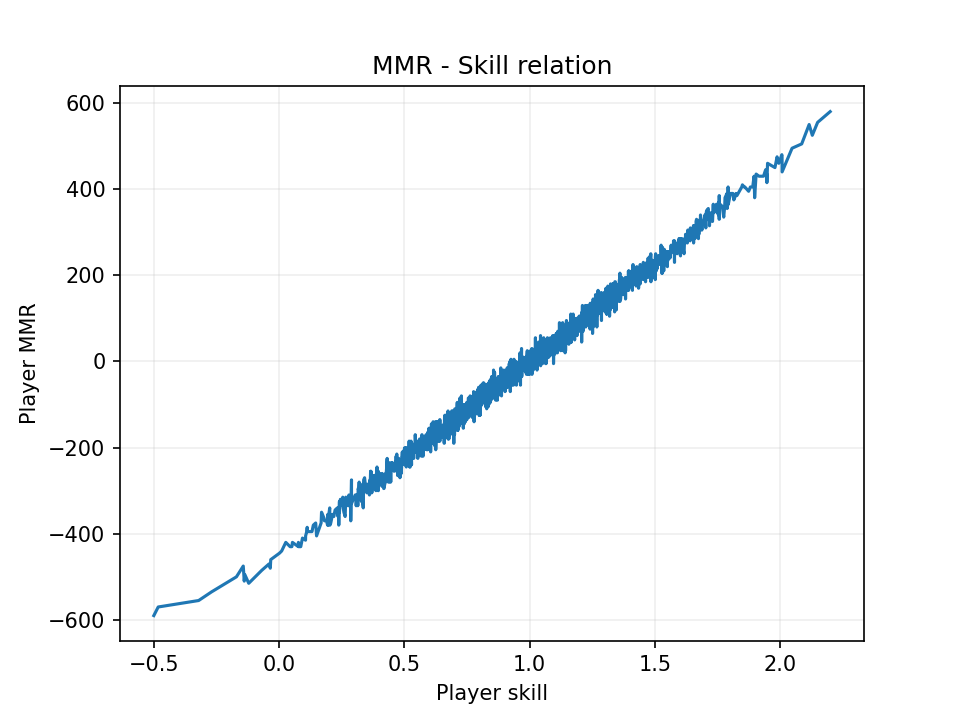
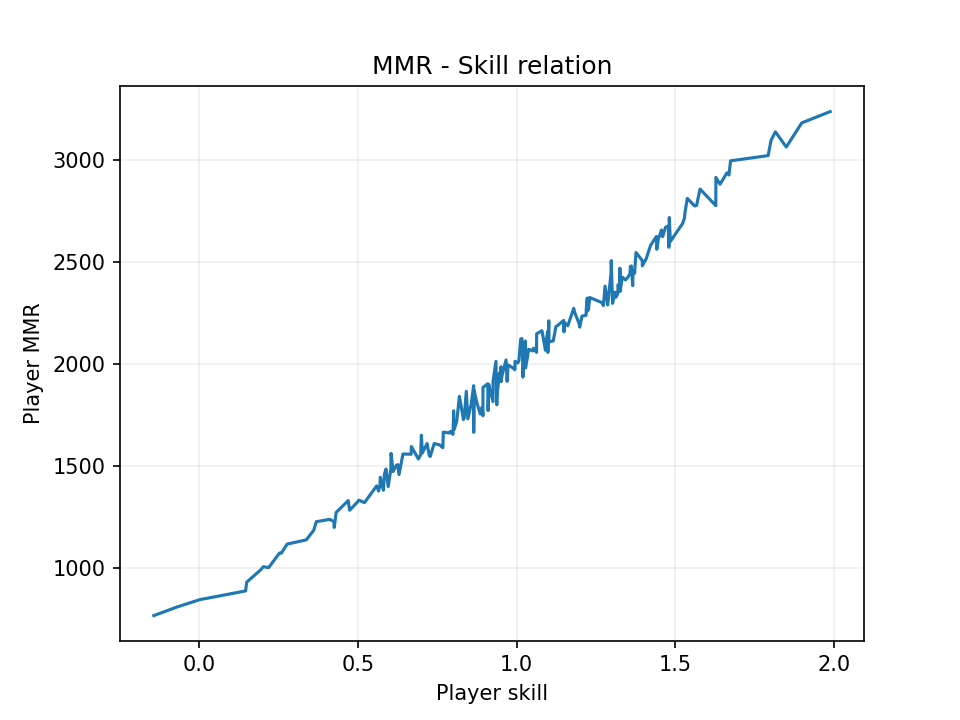
another day

diff --git a/main.cpp b/main.cpp
@@ -8,6 +8,7 @@
 
 #include "mutils.h" // adds "print" and "str" fuction templates
 
+std::vector<double> chance_differences;
 //
 // PLAYER CLASS
 //
@@ -17,7 +18,7 @@ public:
     // Actual player skill
     double skill;
     // MMR assigned by the matchmaker
-    int mmr = 0;
+    double mmr = 2000;
     // Vector of opponent skills. It's used to define the matchmaker accuracy.
     std::vector<double> opponent_history;
     //
@@ -42,7 +43,7 @@ class MatchmakingStrategy
 {
 public:
     virtual bool good_match(Player &p1, Player &p2) = 0;
-    virtual void update_mmr(Player &winner, Player &loser) = 0;
+    virtual void update_mmr(Player &winner, Player &loser, double actual_chances) = 0;
 };
 
 //
@@ -50,27 +51,26 @@ public:
 //
 class naive_strategy : public MatchmakingStrategy
 {
+    const int offset = 1; // how much MMR changes for win/loss
 
 public:
     // Checks if the match between players would be a good based on MMR
     // More complicated version would take into account search time, latency, etc.
     bool good_match(Player &p1, Player &p2)
     {
-        // ** provisional, more complex function later!
-        return std::abs(p1.mmr - p2.mmr) < 20;
+        return std::abs(p1.mmr - p2.mmr) < offset * 2;
     }
 
-    // Updates MMR for
-    void update_mmr(Player &winner, Player &loser)
+    // Updates MMR
+    void update_mmr(Player &winner, Player &loser, double actual_chances)
     {
         winner.opponent_history.push_back(loser.skill);
         winner.mmr_history.push_back(winner.mmr);
         loser.opponent_history.push_back(winner.skill);
         loser.mmr_history.push_back(loser.mmr);
 
-        // ** provisional, update based on expected winrate and choose coef wisely
-        winner.mmr += 5;
-        loser.mmr -= 5;
+        winner.mmr += offset;
+        loser.mmr -= offset;
     }
 };
 
@@ -79,27 +79,51 @@ public:
 //
 class ELO_strategy : public MatchmakingStrategy
 {
+    // ** TEST WITH fixed K
+    // ** TEST WITH K(player.mmr)
+    // ** TRY CHANGING So diff in chances is more aggressive (more points if chances are skewed more?)
+  
+    const double K = 32;
+    /*
+    High K seems to have better accuracy and slightly lower nunber of unique opponents
+
+    K       Opponents       Inaccuracy
+    4       97.3            18.36
+    8       83.3            11.98
+    16      74.9            8.74
+    32      69.4            7.33
+    64      67.4            6.71
+    128     66.6            6.17
+
+    */
 
 public:
     // Checks if the match between players would be a good based on MMR
     // More complicated version would take into account search time, latency, etc.
     bool good_match(Player &p1, Player &p2)
     {
-        // ** provisional, more complex function later!
-        return std::abs(p1.mmr - p2.mmr) < 20;
+        return std::abs(p1.mmr - p2.mmr) < 35.0; // 35 MMR → 55% ; 70 → 60% ; 120 → 66%; 191 → 75%
     }
 
     // Updates MMR for
-    void update_mmr(Player &winner, Player &loser)
+    void update_mmr(Player &winner, Player &loser, double actual_chances)
     {
         winner.opponent_history.push_back(loser.skill);
         winner.mmr_history.push_back(winner.mmr);
         loser.opponent_history.push_back(winner.skill);
         loser.mmr_history.push_back(loser.mmr);
 
-        // ** provisional, update based on expected winrate and choose coef wisely
-        winner.mmr += 5;
-        loser.mmr -= 5;
+        // Chances of winning for the winner and loser. /400 is changed to 173. to use exp instead of pow(10,)
+        double Ew = 1 / (1 + exp((loser.mmr - winner.mmr) / 173.718));
+        double El = 1 - Ew;
+
+        // printf("Winner (%f) | Loser (%f) | Expected: %f Actual: %f | +%f \n", winner.mmr, loser.mmr, Ew, actual_chances, K * El);
+        winner.mmr += K * El;
+        loser.mmr -= K * El;
+
+        
+        double diff = Ew - actual_chances;
+        chance_differences.push_back(diff*diff);
     }
 };
 
@@ -158,23 +182,15 @@ public:
         // printf("Playing a game between #%p (%i MMR) and #%p (%i MMR)\n", &p1, p1.mmr, &p2, p2.mmr);
 
         if (RNG() % 10000 <= 10000 * get_chance(p1, p2))
-        {
-            // print("P1 won");
-            // print();
-            strategy->update_mmr(p1, p2);
-        }
+            strategy->update_mmr(p1, p2, get_chance(p1, p2));
         else
-        {
-            // print("P2 won");
-            // print();
-            strategy->update_mmr(p2, p1);
-        }
+            strategy->update_mmr(p2, p1, get_chance(p2, p1));
     }
 
     // Runs the simulation for `number` of games
     void play_games(int number)
     {
-        bool found_opponent;
+        // bool found_opponent;
         int player, opponent;
         int games_played = 0;
 
@@ -182,7 +198,7 @@ public:
         {
             // Pick a random player
             player = RNG() % players.size();
-            found_opponent = false;
+            // found_opponent = false;
 
             // Pick a random opponent
             for (int tries = 0; tries < 10000; tries++)
@@ -193,17 +209,16 @@ public:
                 if (strategy->good_match(players[player], players[opponent]))
                 {
                     resolve_game(players[player], players[opponent]);
-                    found_opponent = true;
+                    // found_opponent = true;
                     games_played++;
                     break;
                 }
             }
             // If we didn't found a good opponent
-            if (!found_opponent)
-            {
-                // printf("failed to find a good opponent (%i MMR)\n", players[player].mmr);
-                games_played++;
-            }
+            // if (!found_opponent)
+            // {
+            //     printf("failed to find a good opponent (%f MMR)\n", players[player].mmr);
+            // }
         }
     }
 
@@ -225,7 +240,7 @@ public:
 };
 
 // Saves player data into a json file for additional analysis
-void save_player_data(std::vector<Player> &players)
+void save_player_data(const std::vector<Player> &players)
 {
     std::string s = "[\n";
 
@@ -245,7 +260,6 @@ void save_player_data(std::vector<Player> &players)
     print("String created", ms_double.count(), "ms");
 
     // Save data
-    t1 = std::chrono::high_resolution_clock::now();
     std::ofstream myfile("data.json");
     if (myfile.is_open())
     {
@@ -256,30 +270,38 @@ void save_player_data(std::vector<Player> &players)
     {
         print("Failed to save data to json!");
     }
-    t2 = std::chrono::high_resolution_clock::now();
-    ms_double = t2 - t1;
-    print("Data saved", ms_double.count(), "ms");
 }
 
 int main()
 {
-    naive_strategy strategy;
+    ELO_strategy strategy;
     Simulation simulation(strategy);
-    simulation.add_players(2000);
-    simulation.play_games(1000000);
+    simulation.add_players(200);
+    simulation.play_games(100000);
 
     double inaccuracy = simulation.get_inaccuracy();
     print("Inaccuracy:", inaccuracy);
     /*
-    Naive 2000-1000000 (players, games)
-    limit = 4*offset
-    Inaccuracy: 8.09212
+    Naive 200-100000 (players, games)
+    limit = 1*offset → Inaccuracy: 6.00
+    limit = 2*offset → Inaccuracy: 6.67
+    limit = 5*offset → Inaccuracy: 8.6
+    limit = 10*offset → Inaccuracy: 12
+    limit = 100*offset → Inaccuracy: 60
 
     ELO 2000-1000000
+    K=32 → Inaccuracy: 9.26673
 
     */
 
     // Let's try analysis in Python
+
     save_player_data(simulation.players);
     system("python analyse.py");
+
+    double total = 0;
+    for (const double &i : chance_differences) {
+        total += i;
+    }
+    print("sum of chance_differences^2:",total);
 }

diff --git a/analyse.py b/analyse.py
@@ -1,6 +1,7 @@
 import json
 import matplotlib.pyplot as plt
 import seaborn as sns
+import statistics
 
 with open("data.json", 'r') as f:
     data = json.load(f)
@@ -8,8 +9,10 @@ with open("data.json", 'r') as f:
     ### PLOTTING
 plt.rcParams['figure.dpi'] = 150
 
+
 ## PLAYER HISTORY
 def plot_mmr_history(DATAVALUES=6):
+    unique_opponents = [len(set(i["opponent_history"])) for i in data]
     fig, ax = plt.subplots(2, 1)
 
     for player in data[:DATAVALUES]:
@@ -22,14 +25,23 @@ def plot_mmr_history(DATAVALUES=6):
                    ha="left",
                    va="center",
                    color=p[0].get_color())
-        ax[1].plot(list(range(len(opp))), opp, linewidth=0.3)
+        p = ax[1].plot(list(range(len(opp))), opp, linewidth=0.3)
+        ax[1].text(len(opp) + 1,
+                   opp[-1],
+                   len(set(opp)),
+                   ha="left",
+                   color=p[0].get_color())
 
     ax[0].set_ylabel("MMR")
     ax[0].set_xlim(0, ax[0].get_xlim()[1] * 1.1)
     ax[1].set_ylabel("Opponent skill")
     ax[1].set_xlabel("Games")
+    ax[1].set_xlim(0, ax[1].get_xlim()[1] * 1.1)
     ax[1].set_ylim(0, 2)
-    ax[0].set_title("How player MMR and opponents change")
+    ax[0].set_title(
+        "How player MMR and opponents change\n"
+        f"Average unique opponents per player: {statistics.mean(unique_opponents)}"
+    )
     plt.savefig("Player_history.png")
 
 
@@ -62,12 +74,32 @@ def plot_other():
 
     # Player MMR dist
     plt.figure().clear()
+    fig, ax1 = plt.subplots()
+
     sns.histplot(mmrs, element='poly', color='red', fill=True, alpha=0.3)
     plt.title("Player MMR distribution")
     plt.xlabel("Player MMR")
-    plt.ylabel("Player count")
+    ax1.set_ylabel("Player count", color='red')
     plt.grid(alpha=0.2)
+
+    ax2 = ax1.twinx()
+    ndata = [i for i in sorted(data, key=lambda x: x["mmr"])]
+    nmmrs = [i["mmr"] for i in ndata]
+    ax2.scatter(nmmrs, [len(i["opponent_history"]) for i in ndata], s=2)
+    ax2.set_ylabel("Game count per player", color='#0b47bf')
+    plt.tight_layout()
     plt.savefig("MMR_dist.png")
+
+    # Games played
+    plt.figure().clear()
+    games_played = [len(i["opponent_history"]) for i in data]
+    sns.histplot(games_played, element='poly')
+    plt.xlabel("Games played")
+    plt.ylabel("Player count")
+    plt.title(
+        f"Number of games per player\nMedian: {statistics.median(games_played):.0f}"
+    )
+    plt.savefig("Games_played.png")
 
 
 plot_other()

diff --git a/mutils.h b/mutils.h
@@ -35,8 +35,7 @@ std::string str(const std::vector<T> &a)
     std::string s = "[";
     for (const T &el : a)
     {
-        s += str(el);
-        s += ", ";
+        s += str(el) + ", ";
     }
     s.erase(s.end() - 2, s.end());
     s += "]";

diff --git a/README.md b/README.md
@@ -1,4 +1,5 @@
 ![Screenshot](./Skill_dist.png)
 ![Screenshot](./MMR_dist.png)
-![Screenshot](./MMR-Skill.png)
 ![Screenshot](./Player_history.png)
+![Screenshot](./MMR-Skill.png)
+![Screenshot](./Games_played.png)
